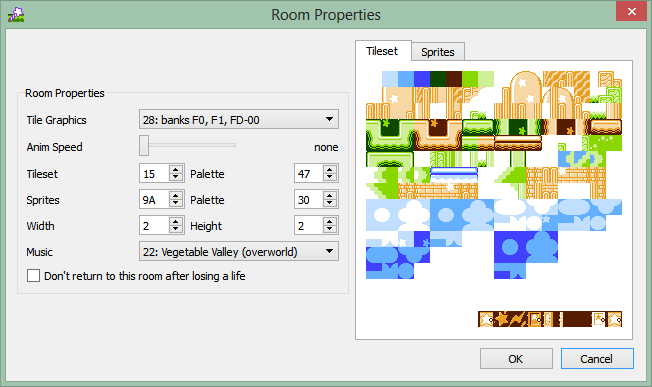
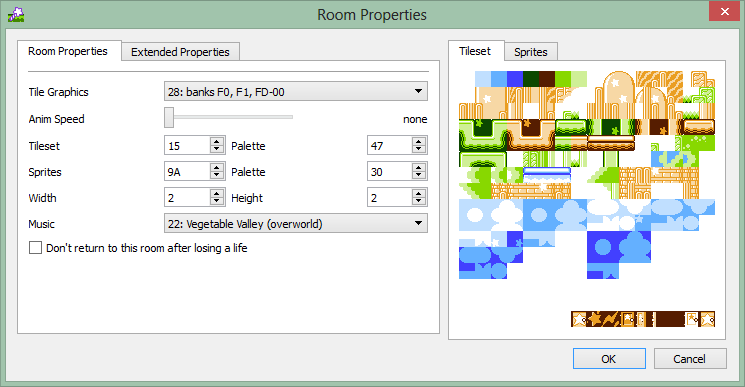
update docs

diff --git a/docs/index.htm b/docs/index.htm
@@ -10,7 +10,7 @@
 <body>
 
 <h1>KALE - Kirby's Adventure Level Editor</h1>
-version 0.91
+version 0.92
 <p>
 
 <table><tr><td>
@@ -20,8 +20,7 @@ version 0.91
 </td></tr></table>
 <p>
 
-<a name="intro"></a>
-<h1>Introduction</h1>
+<h1 id="intro">Introduction</h1>
 <b>KALE</b> is a level editor for <i>Kirby's Adventure</i>.
 <p>
 KALE supports editing almost every part of the game's level data, including sprite and exit locations, tilesets, palettes, and overworld progression. The editor supports all North American, European, and Japanese ROMs. 
@@ -30,8 +29,7 @@ Source code is available on <a href="http://github.com/devinacker/kale" target="
 <p>
 <span class="smallLink">(<a href="#top">top</a>)</span>
 
-<a name="main"></a>
-<h1>The main window</h1>
+<h1 id="main">The main window</h1>
 <img class="center" src="images/mainwindow.png">
 <p>
 The main window is where all level editing takes place. When you load a ROM, level data is shown tile-for-tile exactly as it appears in game, with sprites and exits represented by red and blue squares, respectively. Each room is divided into screens (16 tiles wide by 12 tiles tall), which are numbered in the upper left corner. (These screen numbers are used to determine exit destinations; see the <a href="exits">exit editing</a> section for more info.)
@@ -52,8 +50,7 @@ The "Save Room" option in the Level menu will save all outstanding changes to th
 <p>
 <span class="smallLink">(<a href="#top">top</a>)</span>
 
-<a name="tiles"></a>
-<h1>Editing tiles</h1>
+<h1 id="tiles">Editing tiles</h1>
 <img class="right" src="images/tiles.png">
 <p>
 This is the window which appears when you double-click a selection of tiles or select the "Edit Tiles" menu option. All 256 tiles in the current tile set are displayed here, and mousing over a tile will display its behavior underneath. Clicking a tile will change all of the currently selected tiles in the room.
@@ -62,8 +59,7 @@ To select which tiles and graphics a room uses, open the <a href="#properties">p
 <p>
 <span class="smallLink">(<a href="#top">top</a>)</span>
 
-<a name="exits"></a>
-<h1>Editing exits</h1>
+<h1 id="exits">Editing exits</h1>
 <img class="right" src="images/exits.png">
 <p>
 This is the window which appears when you double-click an exit. 
@@ -79,8 +75,7 @@ Additionally, when exit type 1F ("next level") is selected, some additional info
 <p>
 <span class="smallLink">(<a href="#top">top</a>)</span>
 
-<a name="properties"></a>
-<h1>The properties window</h1>
+<h1 id="properties">The properties window</h1>
 <img src="images/properties.png">
 <p>
 The properties window allows you to customize some details of the current room.
@@ -97,10 +92,22 @@ The sprite box determines the graphics used for the current room's sprites. Spri
 <p>
 Both tile and sprite palettes can be modified using the <a href="#palette">palette editor</a>.
 <p>
+<h2>Extended properties</h2>
+<p>
+This tab allows you to define some additional properties which are not part of the original room data format. For these options to be available, you must first apply a small patch to your ROM by selecting "Apply Extra Room Data Patch..." from the Extra menu. This allows some additional info, which was originally restricted to specific rooms, to be used anywhere.
+<p>
+The properties currently available on this tab are:
+<ul><li>Wind, how fast it blows and in which direction</li>
+<li>A position to lock the screen at when facing a miniboss, or a position to generate a door when a miniboss is defeated</li>
+<li>The number of minibosses that appear</li></ul>
+<p>
+Note that when generating a door, the "open" door should be placed in the room itself, and the two tiles which initially cover it up are specified in this tab.
+<p>
+The extra room data patch has the additional benefit of allowing star switches (sprites 0xFE and 0xFF) to be placed anywhere in a room of any size, removing a limitation of the original game.
+<p>
 <span class="smallLink">(<a href="#top">top</a>)</span>
 
-<a name="mapclear"></a>
-<h1>Editing map clear data</h1>
+<h1 id="mapclear">Editing map clear data</h1>
 <img src="images/mapclear.png">
 <p>
 This window is available from the Level menu or the toolbar, and allows you to control which parts of overworlds are revealed when a level is cleared or a switch is pressed.
@@ -111,8 +118,7 @@ The currently selected regions can be previewed by looking at the main window; t
 <p>
 <span class="smallLink">(<a href="#top">top</a>)</span>
 
-<a name="tileset"></a>
-<h1>Editing tilesets</h1>
+<h1 id="tileset">Editing tilesets</h1>
 <img src="images/tileset.png">
 <p>
 The tileset editor allows you to assemble 16x16 tiles and select their behavior and color information. The "display properties" box works the same way as the corresponding controls on the room properties window; their values default to the ones used by the current room.
@@ -123,8 +129,7 @@ The "subtract this # when tiles are broken" box determines the number (in hexade
 <p>
 <span class="smallLink">(<a href="#top">top</a>)</span>
 
-<a name="palette"></a>
-<h1>Editing palettes</h1>
+<h1 id="palette">Editing palettes</h1>
 <img src="images/palette.png">
 <p>
 Finally, the palette editor allows you to edit both background tile and sprite palettes. Once again, this window's settings default to the palettes used by the current room.
@@ -135,9 +140,7 @@ To edit a color, double-click it and enter a valid NES color number (in hexadeci
 <p>
 <span class="smallLink">(<a href="#top">top</a>)</span>
 
-
-<a name="credits"></a>
-<h1>Credits</h1>
+<h1 id="credits">Credits</h1>
 The author would like to extend well-earned salami sandwiches to each of the following individuals and groups:
 <p>
 <ul>
@@ -154,22 +157,21 @@ The author would like to extend well-earned salami sandwiches to each of the fol
 <p>
 <span class="smallLink">(<a href="#top">top</a>)</span>
 
-<a name="changes"></a>
-<h1>What's new</h1>
+<h1 id="changes">What's new</h1>
 See <a href="../CHANGES.txt" target="_blank">the full changelog</a> for a complete version history.
 <p>
 <span class="smallLink">(<a href="#top">top</a>)</span>
 
-<a name="blahblah"></a>
-<h1>Remarks</h1>
-Well, here's my second Kirby editor. Will there be a third? I have no idea. I started this at the very beginning of 2014 (doing preliminary hacking work over Christmas break, actually), and as of version 0.90, it's now June. That's longer than I was expecting it to take to get to this point, but isn't that how it always goes? I mostly have my laziness to blame, of course, but at least it didn't take as long as the Dream Course editor did.
+<h1 id="blahblah">Remarks</h1>
+This program has now been in on-and-off development for at least a whole year now. The KALE repo on GitHub was created on New Year's Day 2014, consisting of a single experimental Lua script for FCEUX, and slowly grew from there. I didn't do as much with it in the later half of the year, due mostly to gaining a full-time job as a C++/Qt developer and other real-life nonsense, but I'm happy with the editor nonetheless.
 <p>
-Hopefully this will be a bit more popular than KDCEditor was (just like their respective games, I guess). Most of the stuff left to be done, aside from any bugs that might pop up later, is just UI-related convenience. I don't know what else I'll start working on in the meantime, or if any of it will be ROM hacking-related at all (aside from a translation or two I've had on the back burner for a while). Who knows?
+Now I'm writing this in the very first minutes of New Year's Eve, 364 days after the first commit, and getting ready to push what might be the final ROM hacking utility release of the year. It's been a bit exciting to see a few people actually putting it to use in that time; maybe Kirby hacking will finally become a Big Thing one of these days.
+<p>
+Some minor things are still indefinitely unfinished due mostly to lack of free time, but I hope you still find this pet project useful. Happy new year.
 <p>
 <span class="smallLink">(<a href="#top">top</a>)</span>
 
-<a name="contact"></a>
-<h1>Contact</h1>
+<h1 id="contact">Contact</h1>
 If you want to yell at me about something, here's how you can:
 <p>
 <b>Email</b>:<br>
@@ -177,8 +179,7 @@ If you want to yell at me about something, here's how you can:
 <p>
 <b>IRC</b>:<br>
 "devin"     on irc.badnik.net<br>
-"Revenant"  on irc.oftc.net<br>
-"Revenant`" on irc.synirc.net and irc.dal.net
+"Revenant`" on OFTC, SynIRC, DALnet, and EsperNet
 <p>
 <b>Forums</b>:<br>
 <a href="http://jul.rustedlogic.net/profile.php?id=504" target="_blank">http://jul.rustedlogic.net/profile.php?id=504</a><br>
@@ -187,6 +188,6 @@ If you want to yell at me about something, here's how you can:
 <span class="smallLink">(<a href="#top">top</a>)</span>
 
 <p>
-copyright 2014 Devin "Revenant" Acker - "life is but a dream"
+copyright 2014-2015 Devin "Revenant" Acker - "life is but a dream"
 </body>
 </html>

diff --git a/README.md b/README.md
@@ -1,6 +1,6 @@
 Kirby's Adventure Level Editor (KALE) 
 =====================================
-version 0.91
+version 0.92
 
 ![Screenshot](https://raw.githubusercontent.com/devinacker/kale/master/docs/images/mainwindow.png)
 
